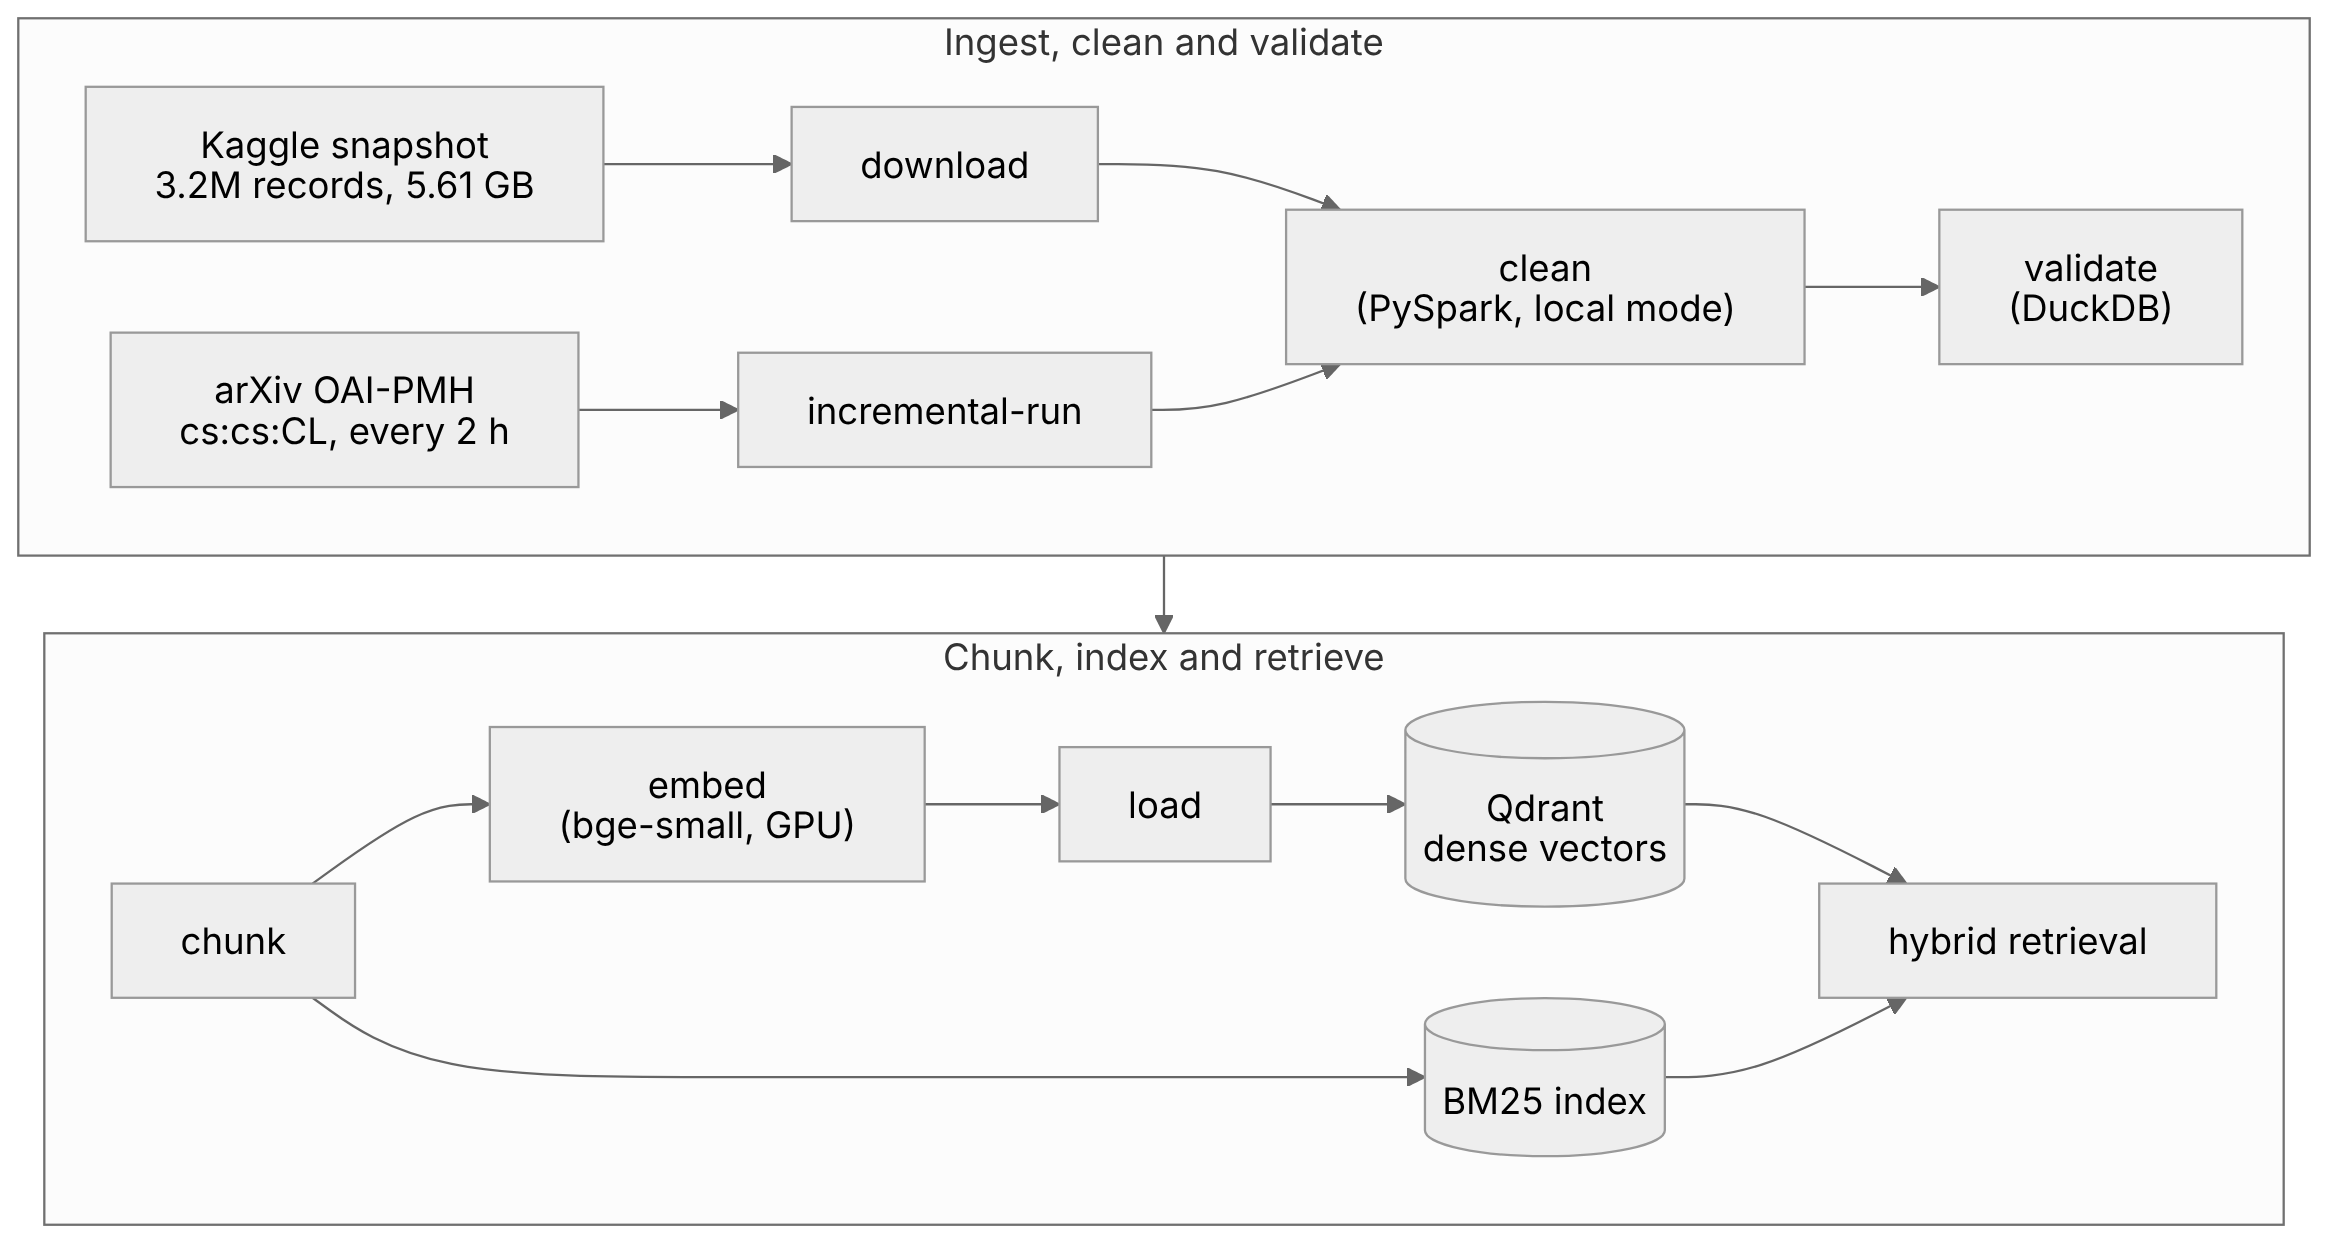
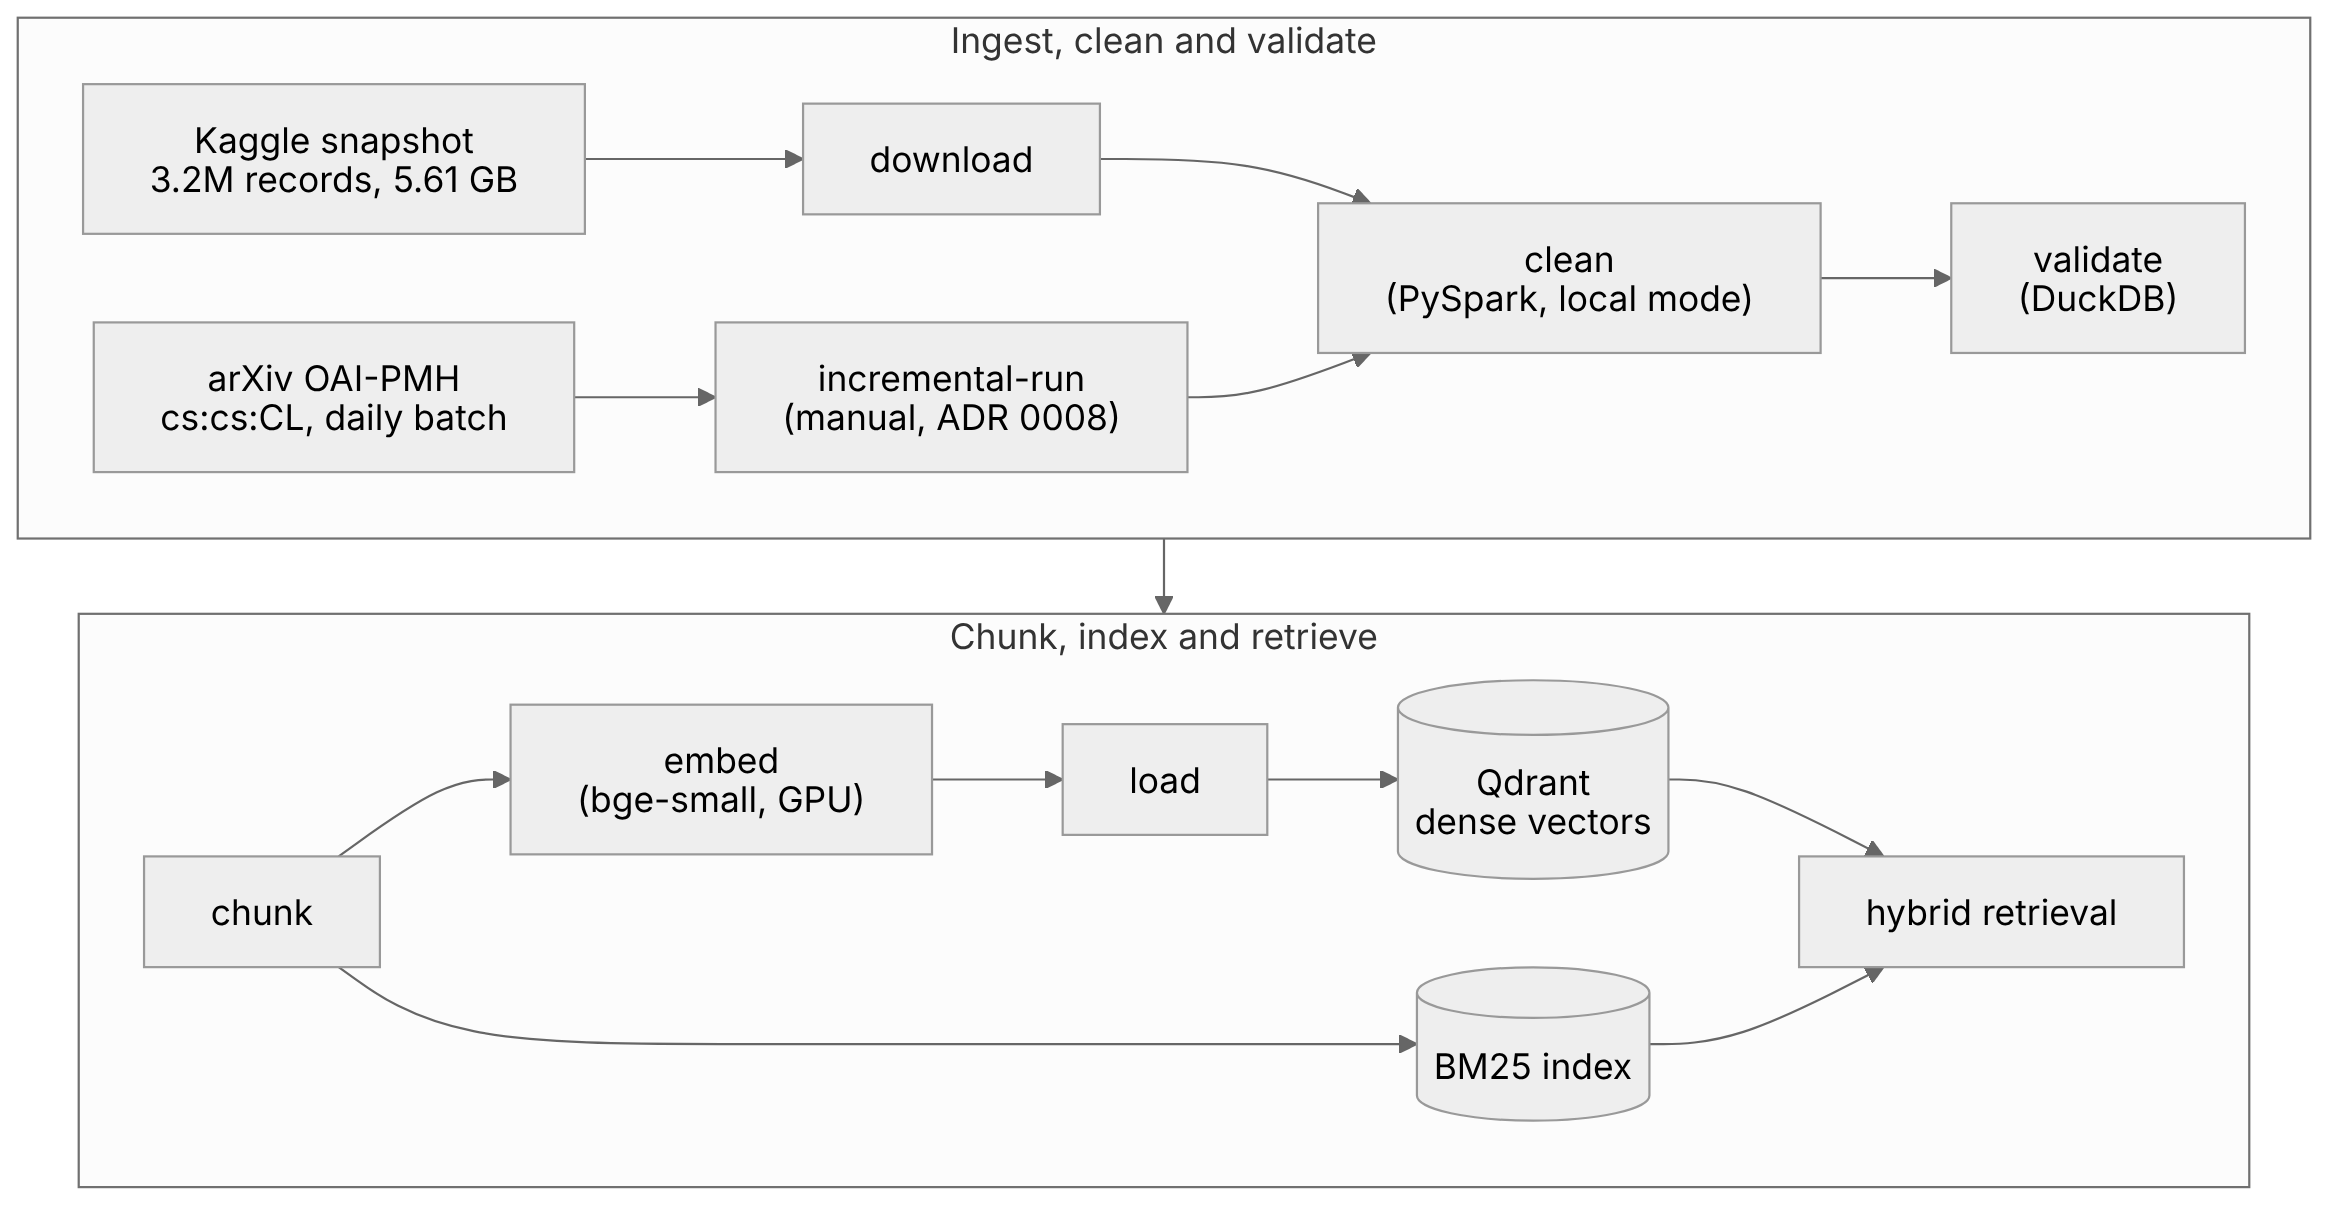
docs(report): apply review notes of #214, student IDs on the cover, 40-page PDF (W8-D4-LDN-1)
Review notes (DAT):
- cover.md: Team row lists the three handles only; full names in the order Đạt, Đan, Chính.
- pdf/cover.tex: student IDs.
- References [3] (BM25): back to 3(4), pp. 333-389 (confirmed on the publisher page).
- Figure 2.1: the OAI-PMH label now says daily batch with the manual incremental-run (ADR 0008).
- 4.8 point 3 lists the fifth cause (answer is a side detail, 2).
- Outline: presentation took place on 2026-11-12. build_pdf.sh: tikz and setspace in the package list.

PDF: 10 pt Times New Roman, line spacing 1.5 in the chapters, margins 1.8 cm, lists 1.15, appendix
and references single-spaced, contents with chapter titles only: 40 pages.

Claude-Session: https://claude.ai/code/session_01MZhoZ7fZcFVZ54rYpCdxdA

diff --git a/docs/report/pdf/cover.tex b/docs/report/pdf/cover.tex
@@ -5,9 +5,9 @@
 \newcommand{\coverSubtitle}{Automated Scientific Aggregation Platform}
 \newcommand{\coverCourse}{BIG DATA ANALYTICS}
 \newcommand{\coverClass}{Class code: 261\_72ITDS40303\_02}
-\newcommand{\coverMemberA}{Hồ Du Tuấn Đạt -- (Student ID)}
-\newcommand{\coverMemberB}{Nguyễn Minh Chính -- (Student ID)}
-\newcommand{\coverMemberC}{Dương Ngọc Linh Đan -- (Student ID)}
+\newcommand{\coverMemberA}{Hồ Du Tuấn Đạt -- 2374802010097}
+\newcommand{\coverMemberB}{Dương Ngọc Linh Đan -- 2374802010091}
+\newcommand{\coverMemberC}{Nguyễn Minh Chính -- 2275106050051}
 \newcommand{\coverPlace}{Ho Chi Minh City -- 2026}
 \thispagestyle{empty}
 \begingroup

diff --git a/docs/report/pdf/header.tex b/docs/report/pdf/header.tex
@@ -21,3 +21,7 @@
 % Line spacing 1.5 in the running text.
 \usepackage{setspace}
 \setstretch{1.43} % equals "1.5 lines" in Word for 12 pt Times New Roman (\onehalfspacing is a little tighter)
+\setcounter{tocdepth}{1}
+% Lists are a little tighter than the running text (single spacing 1.15).
+\AtBeginEnvironment{itemize}{\setstretch{1.15}}
+\AtBeginEnvironment{enumerate}{\setstretch{1.15}}

diff --git a/docs/report/04-evaluation.md b/docs/report/04-evaluation.md
@@ -254,8 +254,9 @@ The detailed analyses are `evaluation/reports/retrieval-errors-w7.md` (FAO, retr
    **vocabulary mismatch**, where the question uses everyday words and the abstract uses the
    technical term (7), are the two largest causes of retrieval misses. A better ranker does not
    solve either; both need a better query.
-3. **Crowded topics** (7 misses), where other papers rank above the relevant one, and
-   **retriever-dependent misses** (6), found by one single retriever but lost in the fusion.
+3. **Crowded topics** (7 misses), where other papers rank above the relevant one,
+   **retriever-dependent misses** (6), found by one single retriever but lost in the fusion, and
+   **answers that are a side detail** of the relevant paper (2).
 4. **Near misses.** Six of hybrid's 32 misses have the relevant paper at ranks 6 to 10, which never
    reach the answer because only the top 5 chunks are shown.
 5. **Multi-hop and comparison questions** need two papers, so one missing paper counts as a miss.

diff --git a/docs/report/cover.md b/docs/report/cover.md
@@ -7,8 +7,8 @@ Final project report, version v1.0
 | | |
 |---|---|
 | **Course** | Big Data Analytics (class code 261_72ITDS40303_02) |
-| **Team** | DAT (`Tdat10052499`), FAO (`F4ol4n`), Dương Ngọc Linh Đan, LDN (`Yui-Mika`) |
-| **Full names** | DAT: Hồ Du Tuấn Đạt; FAO: Nguyễn Minh Chính; LDN: Dương Ngọc Linh Đan |
+| **Team** | DAT (`Tdat10052499`), FAO (`F4ol4n`), LDN (`Yui-Mika`) |
+| **Full names** | DAT: Hồ Du Tuấn Đạt; LDN: Dương Ngọc Linh Đan; FAO: Nguyễn Minh Chính |
 | **Repository** | https://github.com/Tdat10052499/scitech-rag-agent |
 | **Release** | v1.0 |
 | **Date** | 16 November 2026 |

diff --git a/docs/report/08-references.md b/docs/report/08-references.md
@@ -10,7 +10,7 @@ Tasks.* Advances in Neural Information Processing Systems 33 (NeurIPS 2020). arX
 Individual Rank Learning Methods.* Proceedings of SIGIR 2009, pp. 758–759.
 
 [3] S. Robertson, H. Zaragoza. *The Probabilistic Relevance Framework: BM25 and Beyond.* Foundations
-and Trends in Information Retrieval 4(1–2), 2009, pp. 1–174.
+and Trends in Information Retrieval 3(4), 2009, pp. 333–389. DOI 10.1561/1500000019.
 
 [4] S. Xiao, Z. Liu, P. Zhang, N. Muennighoff, D. Lian, J.-Y. Nie. *C-Pack: Packed Resources For
 General Chinese Embeddings* (the BGE embedding models). 2023. arXiv:2309.07597. Model used:

diff --git a/docs/report/00-outline.md b/docs/report/00-outline.md
@@ -56,7 +56,7 @@ The other chapters rely on these points, so they are fixed here.
 
 ## 3. Schedule
 
-The dates come from `docs/plan/` and ADR 0010. The presentation is on Tuesday 2026-11-10.
+The dates come from `docs/plan/` and ADR 0010. The presentation was planned for Tuesday 2026-11-10 and took place on 2026-11-12 (#212, #213).
 
 | Day | Report work | Owner |
 |---|---|---|
